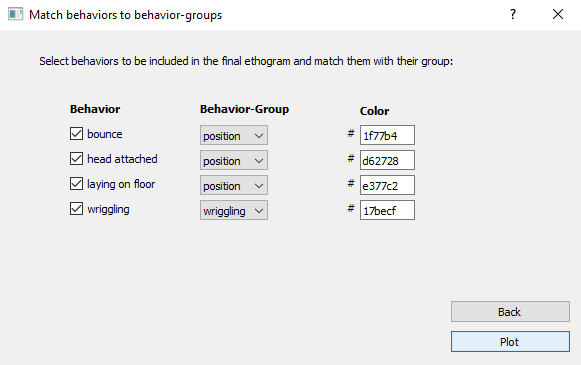
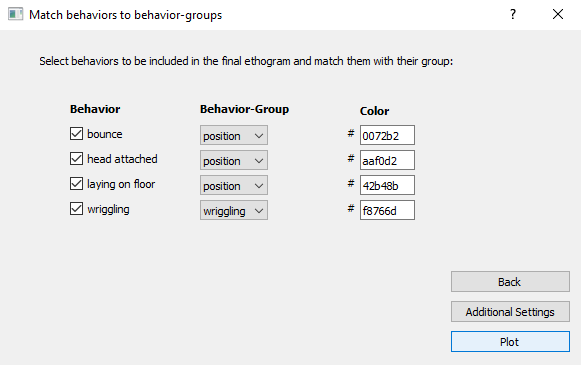
added support for changing x-limits

diff --git a/utils/plot_settings.py b/utils/plot_settings.py
@@ -5,7 +5,7 @@ import pandas as pd
 import datetime as dt
 import re
 from PyQt5 import QtCore, QtWidgets, QtGui
-from utils.warning_functions import DuplicateItemWarning, InvalidColorWarning
+from utils.warning_functions import DuplicateItemWarning, InvalidColorWarning, InvalidXLimitsWarning
 import re
 from collections import OrderedDict
 
@@ -252,8 +252,8 @@ class BehaviorsDialog():
 
         self.connectButtons(Dialog, oldDialog, dataframe, selected_subjects, behaviorGroupsList)
         self.retranslateUi(Dialog)
-        self.xLowerLimit = None
-        self.xUpperLimit = None
+        self.lowerXLimit = None
+        self.upperXLimit = None
         QtCore.QMetaObject.connectSlotsByName(Dialog)
 
     def retranslateUi(self, Dialog: QtWidgets.QDialog):
@@ -315,6 +315,8 @@ class BehaviorsDialog():
             axs[subject_idx].set_ylabel(subject, fontdict={"fontsize": 12})
             axs[subject_idx].set_ylim(bottom=0, top=len(behaviorGroupsList) + 1)
             axs[subject_idx].invert_yaxis()
+            if self.lowerXLimit and self.upperXLimit:
+                axs[subject_idx].set_xlim(init + dt.timedelta(seconds=self.lowerXLimit), init + dt.timedelta(seconds=self.upperXLimit))
 
         fig.autofmt_xdate()
         fig.tight_layout()
@@ -322,7 +324,7 @@ class BehaviorsDialog():
         plt.show()
 
 class AdditionalSettingsDialog():
-    def setupUi(self, behaviorsDialogClassRef, Dialog):
+    def setupUi(self, behaviorsDialogClassRef, Dialog: QtWidgets.QDialog):
         Dialog.setObjectName("Dialog")
         Dialog.resize(344, 165)
         self.pushButton = QtWidgets.QPushButton(Dialog)
@@ -353,13 +355,13 @@ class AdditionalSettingsDialog():
         self.lineEdit_2.setGeometry(QtCore.QRect(120, 90, 81, 20))
         self.lineEdit_2.setObjectName("lineEdit_2")
 
-        self.checkBox.stateChanged.connect(lambda : self.onChecked())
+        self.checkBox.stateChanged.connect(lambda : self.onChecked(behaviorsDialogClassRef))
         self.pushButton.clicked.connect(lambda : self.update_xlimits(Dialog, behaviorsDialogClassRef))
 
         self.retranslateUi(Dialog)
         QtCore.QMetaObject.connectSlotsByName(Dialog)
 
-    def onChecked(self):
+    def onChecked(self, behaviorsDialogClassRef):
         if self.checkBox.isChecked():
             self.lineEdit_2.setEnabled(False)
             self.lineEdit.setEnabled(False)
@@ -367,18 +369,27 @@ class AdditionalSettingsDialog():
             self.lineEdit_2.setEnabled(True)
             self.lineEdit.setEnabled(True)
 
-    def update_xlimits(self):
-        numericRE = '[0-9]+'
-        if re.search(numericRE, self.lineEdit.text()) and re.search(numericRE, self.lineEdit_2.text()):
-
+    def update_xlimits(self, Dialog: QtWidgets.QDialog, behaviorsDialogClassRef):
+        if not self.checkBox.isChecked():
+            numericRE = '^\+?[0-9]+$'
+            if re.search(numericRE, self.lineEdit.text()) and re.search(numericRE, self.lineEdit_2.text()):
+                print('here')
+                behaviorsDialogClassRef.lowerXLimit = int(self.lineEdit.text())
+                behaviorsDialogClassRef.upperXLimit = int(self.lineEdit_2.text())
+                Dialog.close()
+            else:
+                InvalidXLimitsWarning()
         else:
-            
+            behaviorsDialogClassRef.lowerXLimit = None
+            behaviorsDialogClassRef.upperXLimit = None
+            Dialog.close()
 
-    def retranslateUi(self, Dialog):
+
+    def retranslateUi(self, Dialog: QtWidgets.QDialog):
         _translate = QtCore.QCoreApplication.translate
         Dialog.setWindowTitle(_translate("Dialog", "Dialog"))
         self.pushButton.setText(_translate("Dialog", "Ok"))
-        self.checkBox.setText(_translate("Dialog", "set x-axis limit automatically"))
+        self.checkBox.setText(_translate("Dialog", "set x-axis limits automatically"))
         self.label.setText(_translate("Dialog", "lower x-limit:"))
         self.label_2.setText(_translate("Dialog", "seconds"))
         self.label_3.setText(_translate("Dialog", "upper x-limit:"))

diff --git a/README.md b/README.md
@@ -57,7 +57,7 @@ Configure your behavior groups. The groups represent the labels on the y-axis in
 </li>
 <br>
 <li>
-Choose which behaviors to include & assign them to the respective groups. Behaviors belonging to the same group will show up on the same horizontal line in the ethogram:
+Choose which behaviors to include & assign them to their respective groups. Behaviors belonging to the same group will show up on the same horizontal line in the ethogram. You can also set the x-limits by clicking on *additional settings*:
 
 <br>
 <p align="center">
@@ -70,7 +70,7 @@ Finally, you can further customize you plots using the matplotlib interface (set
 
 <br>
 <p align="center">
-<img src="UI Designs/screenshots/final_plot.png" width="100%"/>
+<img src="UI Designs/screenshots/final_plot.png" width="85%"/>
 </p>
 <br>
 </li>
